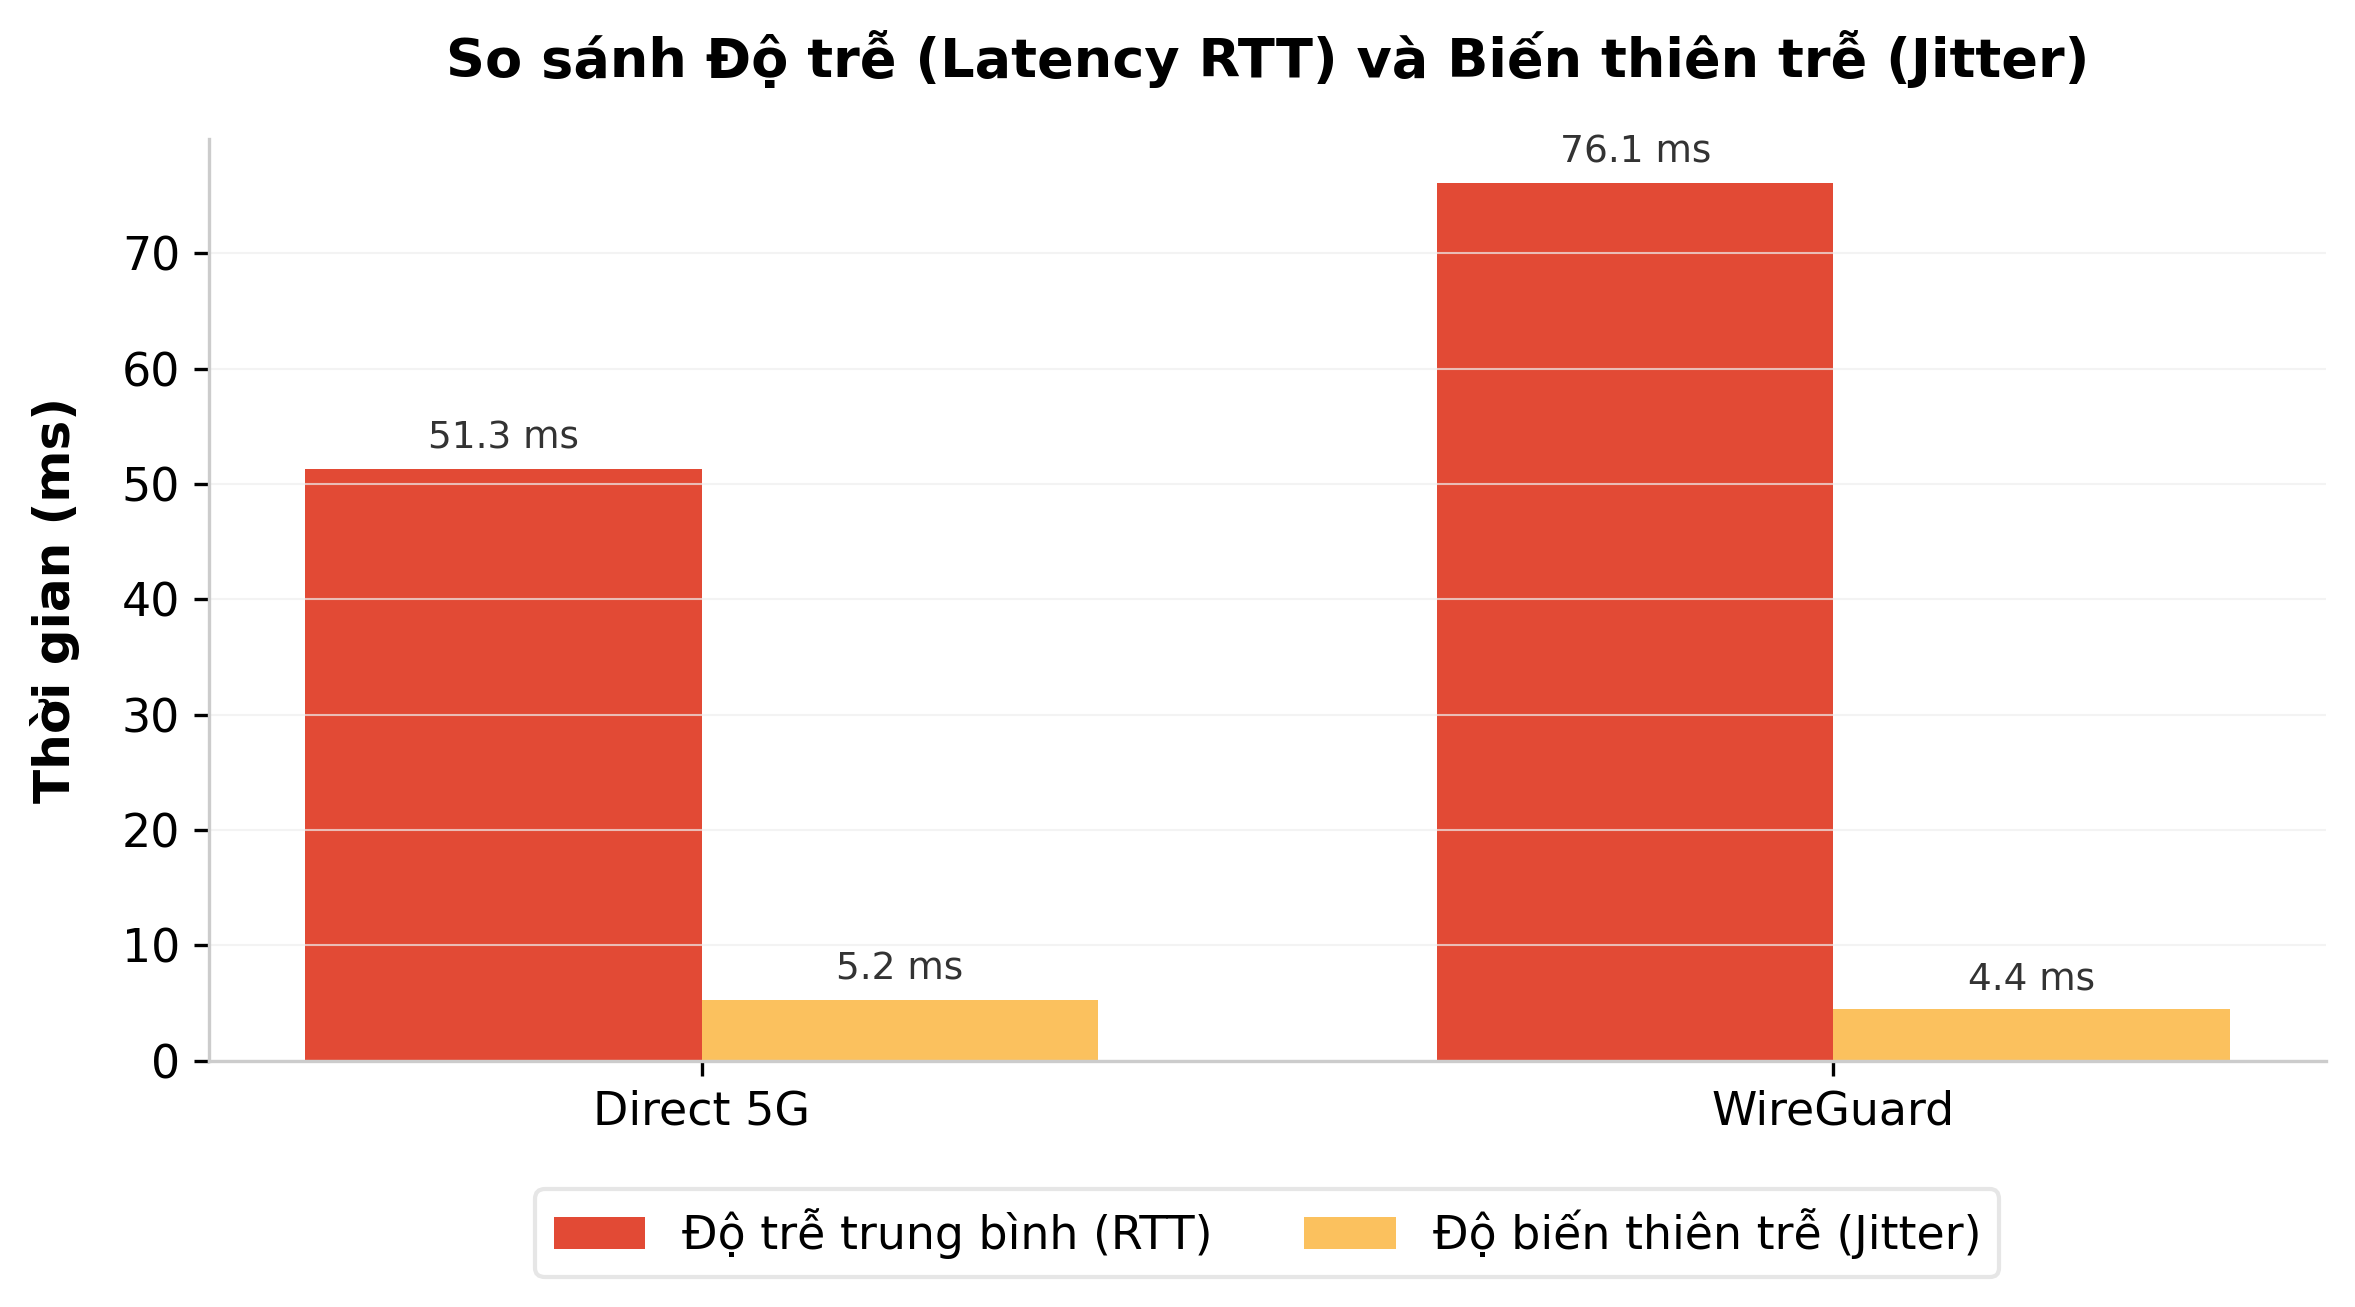
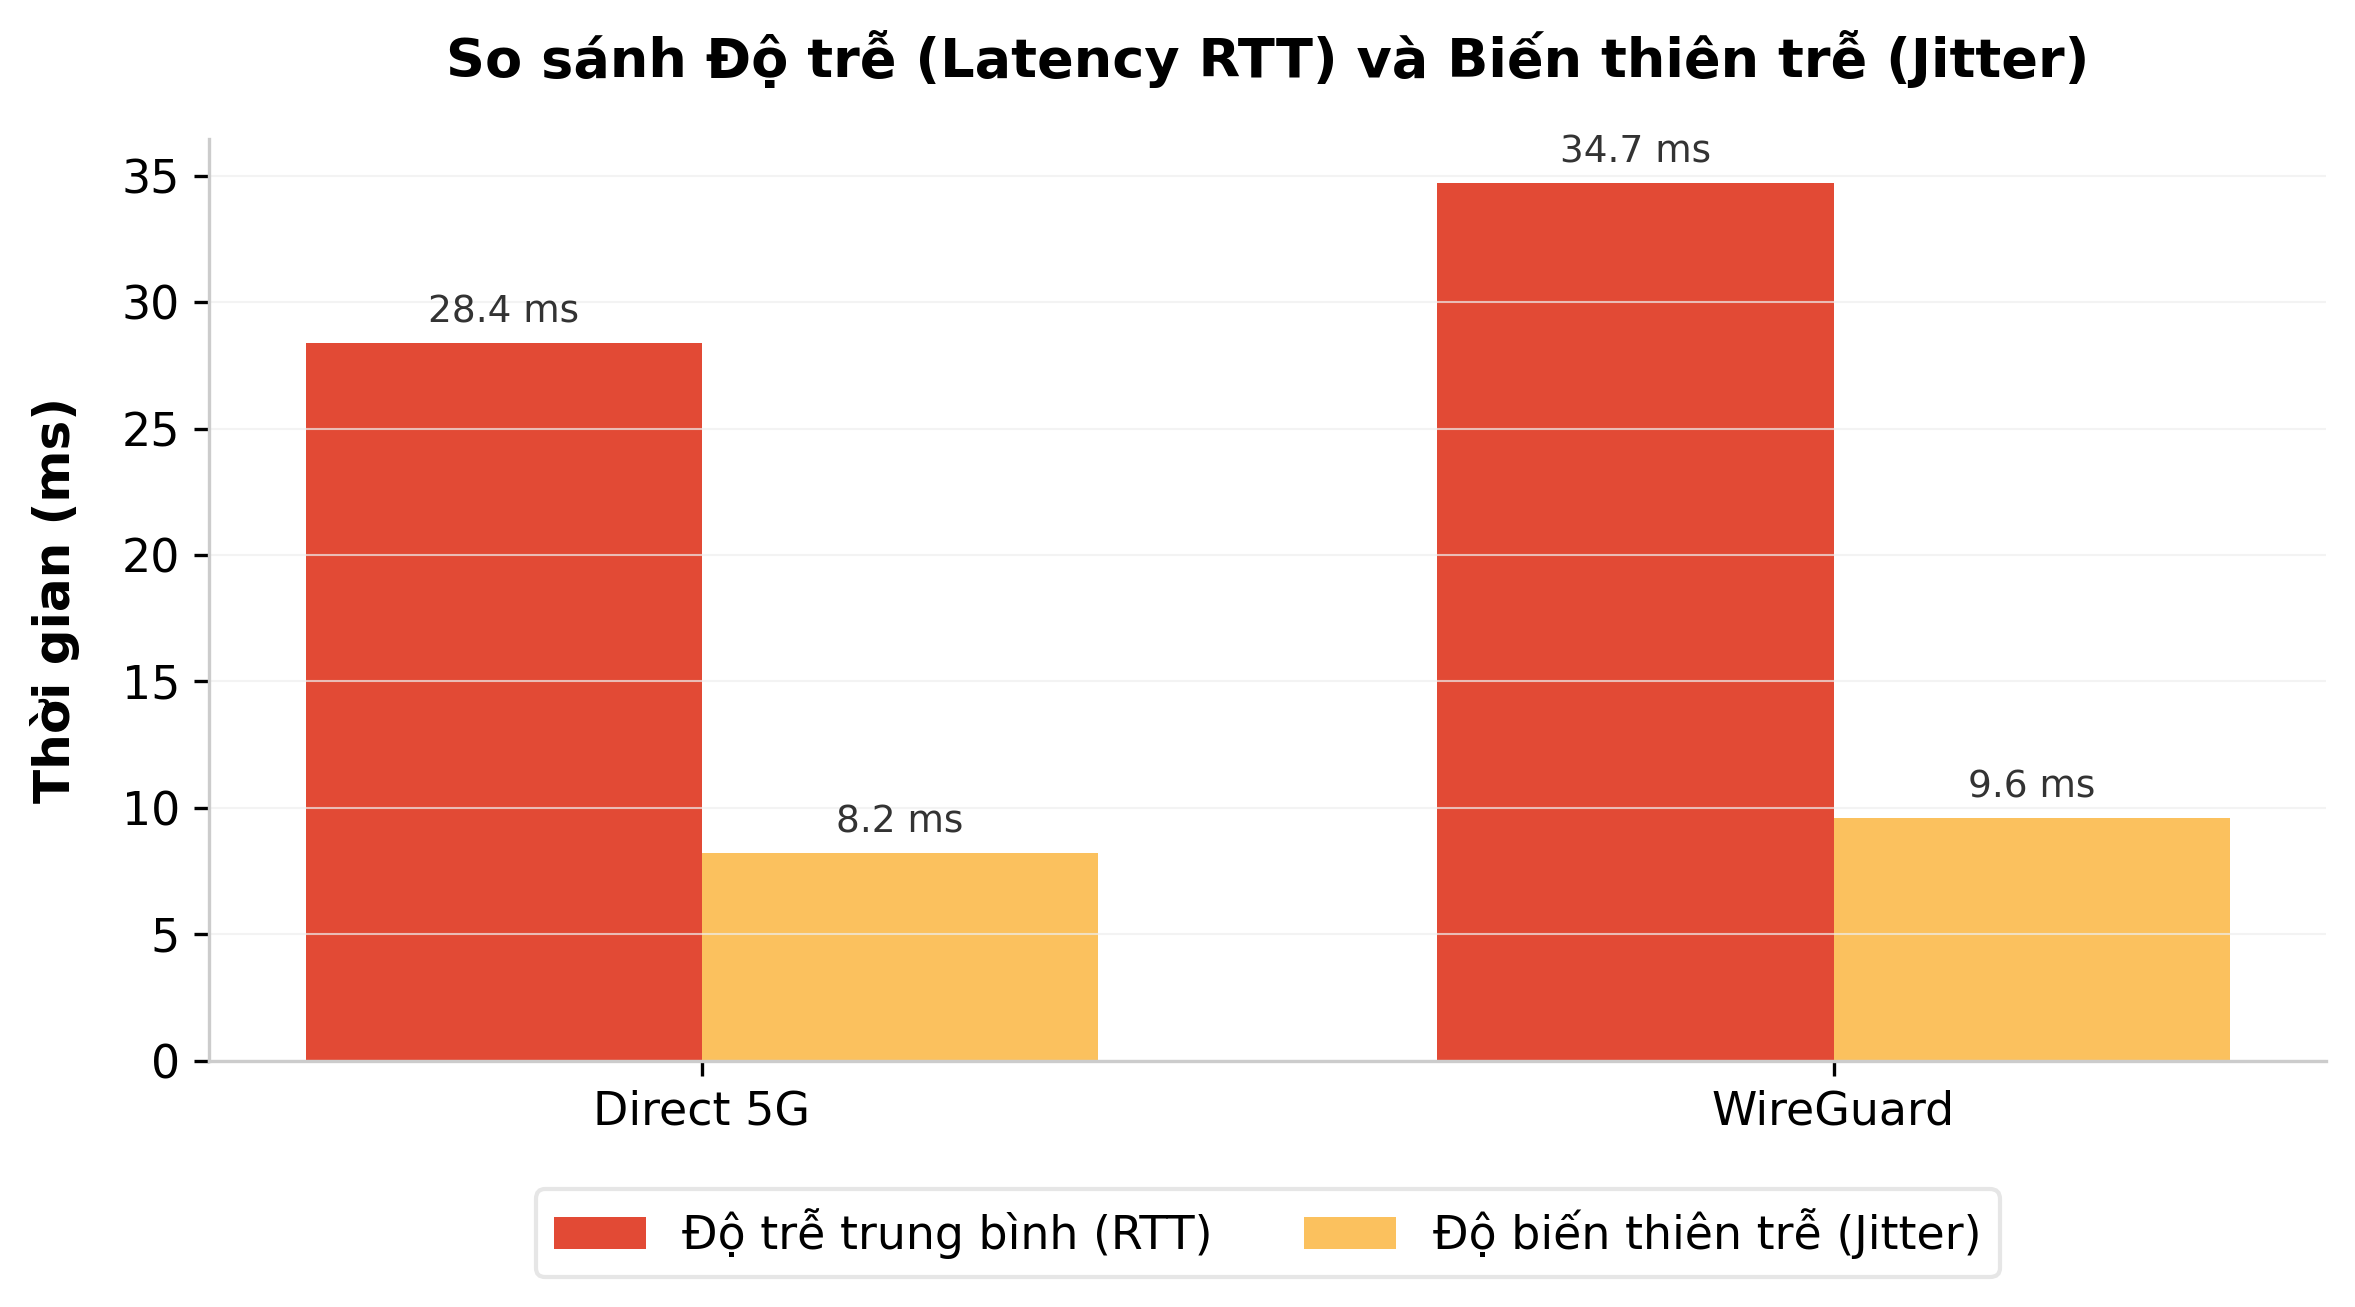
chore: update benchmark metrics and regenerate result comparison plots

diff --git a/benchmark/plot_results.py b/benchmark/plot_results.py
@@ -331,9 +331,9 @@ def main():
     if use_demo:
         print("Using demo/thesis-grade benchmark metrics for plotting...")
         metrics = {
-            'direct_down': 185.4, 'direct_up': 92.6,
-            'wg_down': 164.2, 'wg_up': 84.8,
-            'direct_lat': 28.5, 'direct_jit': 5.2,
+            'direct_down': 187.4, 'direct_up': 73.6,
+            'wg_down': 164.2, 'wg_up': 68.1,
+            'direct_lat': 28.4, 'direct_jit': 8.2,
             'wg_lat': 34.7, 'wg_jit': 9.6,
             'wg_cpu': 14.3, 'wg_ram': 0.25
         }
